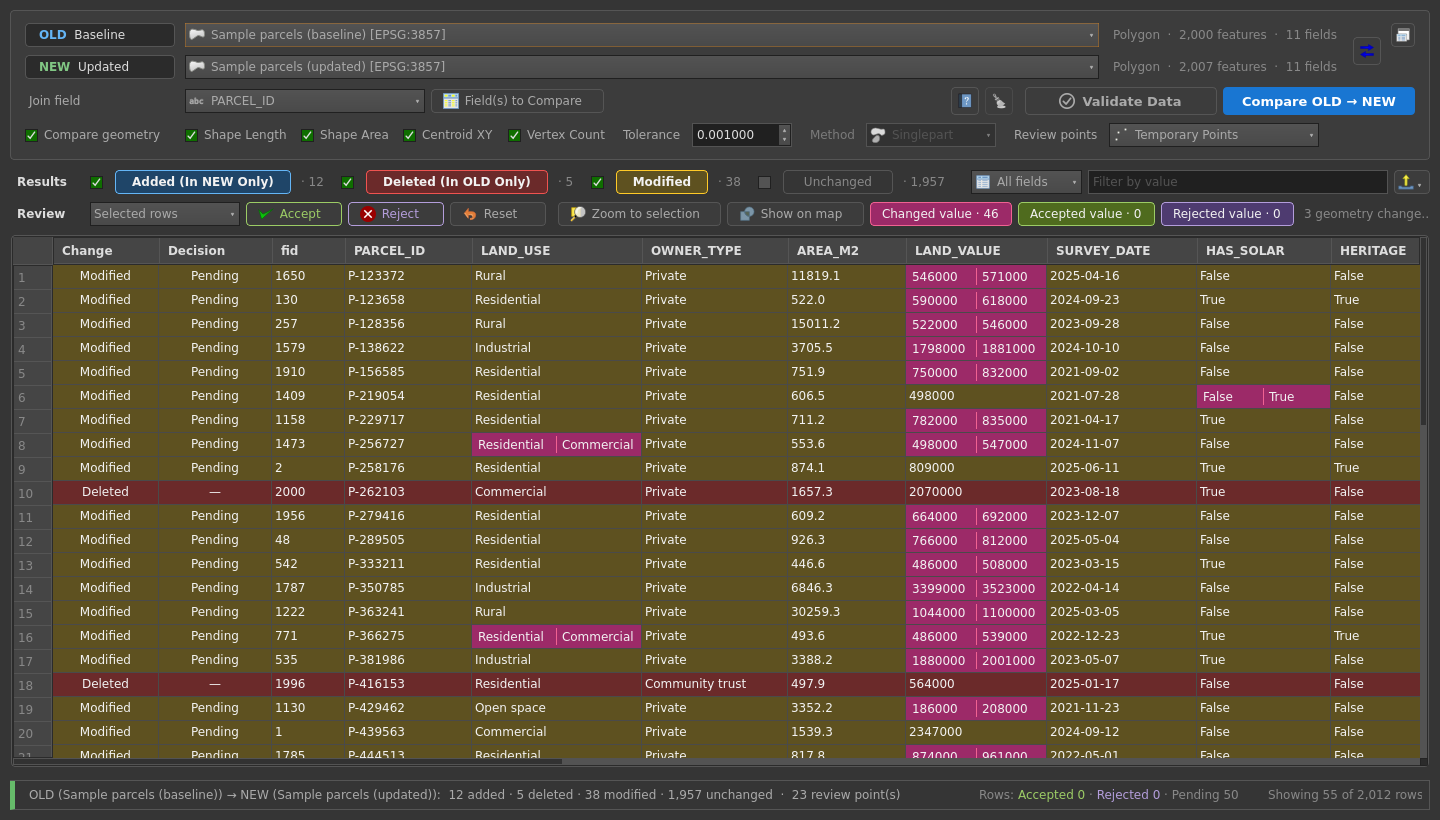
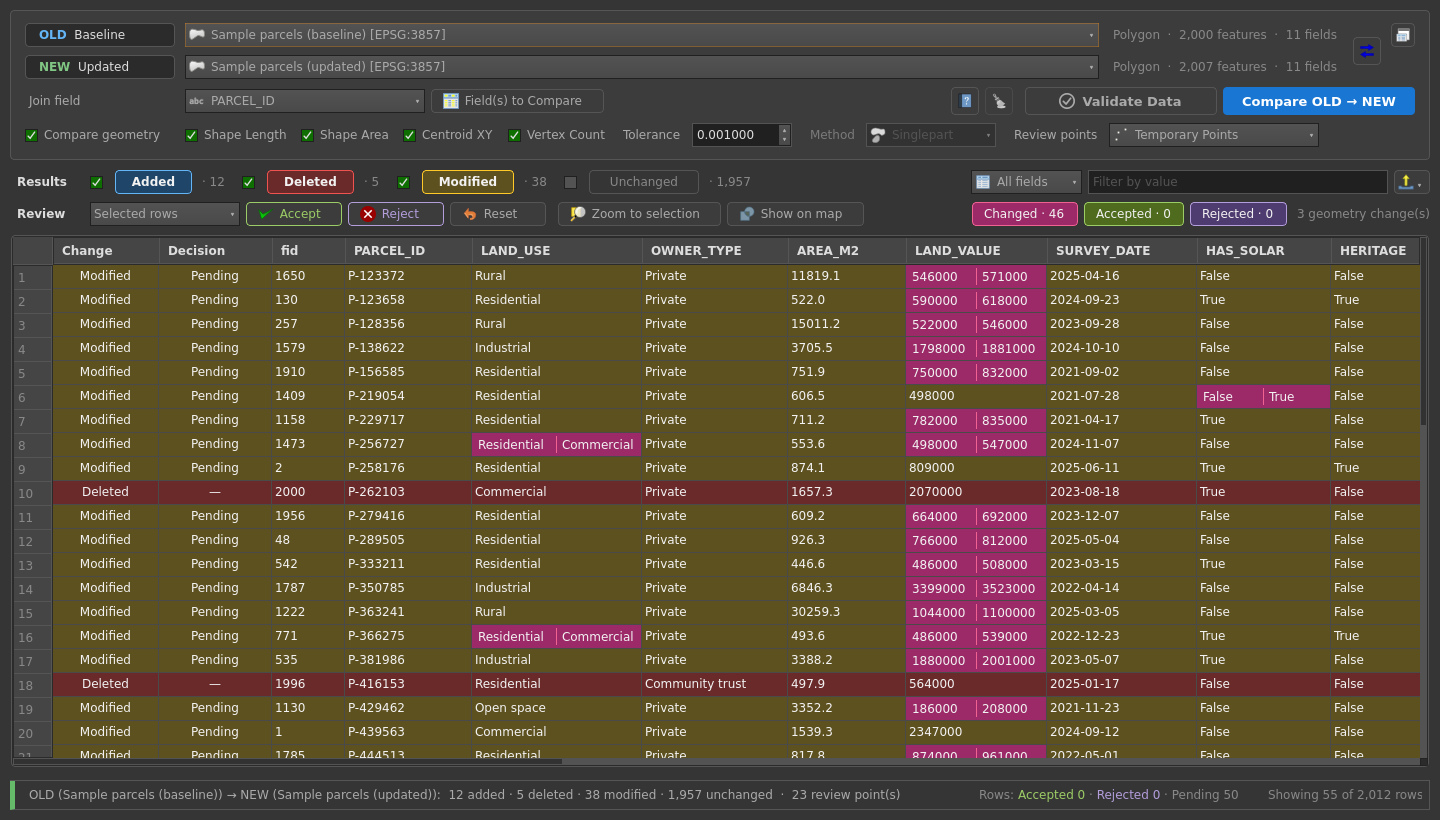
Compare: shrink further when docked; shorter labels; greyed geometry ticks
- The Review buttons (Accept, Reject, Reset, Zoom to selection, Show on
  map) and Field(s) to Compare turn icon-only when the panel is narrow,
  with their names in the tooltips, as in the Explorer's top row. The
  panel's minimum width drops by about a quarter.
- Results: "Added" and "Deleted" without "(In NEW / OLD Only)"; the
  counts stay. The help describes each kind in detail.
- Filter by value shrinks with the panel, down to the width of the All
  fields picker beside it.
- Review legends read "Changed", "Accepted" and "Rejected".
- With Compare geometry unticked, its options show greyed but ticked for
  the OLD layer's geometry type. A disabled check box no longer loses its
  box (a transparent background made the style draw it invisible).

Claude-Session: https://claude.ai/code/session_01WzmTZVv7prW4LhcmkwE1Ve

Changed region(s): [[0.125, 0.1829, 0.5312, 0.2439], [0.5625, 0.2134, 1.0, 0.2744]]

diff --git a/ui/geotable_compare.py b/ui/geotable_compare.py
@@ -831,8 +831,11 @@ class GeoTableCompareDialog(QWidget):
         join_row = QHBoxLayout()
         join_row.setSpacing(m.gap)
         join_row.addWidget(self.join_field_combo)
-        join_row.addWidget(self.column_filter_btn)
-        join_row.addStretch()
+        fields_row = W.ButtonRow(m)              # icon-only when narrow
+        self.column_filter_btn.setProperty("gtsNameTip", True)
+        fields_row.add(self.column_filter_btn)
+        fields_row.add_stretch()
+        join_row.addWidget(fields_row, 1)
         join_row.addWidget(self.help_btn)
         join_row.addWidget(self.clear_validation_btn)
         join_row.addSpacing(m.gap)
@@ -902,12 +905,7 @@ class GeoTableCompareDialog(QWidget):
         self.filter_buttons = {}
         self.filter_boxes = {}
         self.filter_counts = {}
-        labels = {
-            "Added": "Added (In NEW Only)",
-            "Deleted": "Deleted (In OLD Only)",
-            "Modified": "Modified",
-            "Unchanged": "Unchanged",
-        }
+        labels = {status: status for status in STATUSES}
         tips = {
             "Added": "Features that exist only in the NEW version",
             "Deleted": "Features that exist in OLD but are missing from NEW",
@@ -947,8 +945,8 @@ class GeoTableCompareDialog(QWidget):
         # ---- Filter by field value (field picker + suggestions) ----
         self.filter_field_combo = QComboBox()
         self.filter_field_combo.setFixedHeight(m.control_h)
-        self.filter_field_combo.setFixedWidth(
-            m.fm.horizontalAdvance("All fields") + m.icon + 44)
+        field_w = m.fm.horizontalAdvance("All fields") + m.icon + 44
+        self.filter_field_combo.setFixedWidth(field_w)
         self.filter_field_combo.setIconSize(QSize(m.icon, m.icon))
         self.filter_field_combo.setMaxVisibleItems(16)
         self.filter_field_combo.view().setMinimumWidth(280)
@@ -961,7 +959,8 @@ class GeoTableCompareDialog(QWidget):
         self.search_edit.setPlaceholderText("Filter by value")
         self.search_edit.setClearButtonEnabled(True)
         self.search_edit.setFixedHeight(m.control_h)
-        self.search_edit.setMinimumWidth(150)
+        # shrinks with the panel, never below the field picker beside it
+        self.search_edit.setMinimumWidth(field_w)
         self.search_edit.setMaximumWidth(300)
         self.search_edit.setSizePolicy(
             QSizePolicy.Policy.Expanding, QSizePolicy.Policy.Fixed)
@@ -1050,6 +1049,8 @@ class GeoTableCompareDialog(QWidget):
         self.review_scope.setToolTip("Which rows the buttons apply to")
         lay.addWidget(self.review_scope)
 
+        # the buttons turn icon-only when the panel is too narrow for them
+        buttons = W.ButtonRow(m)
         self.accept_btn = self._review_button(
             "Accept", icons.SUCCESS, "accept",
             "Mark the Added / Modified rows as accepted")
@@ -1059,7 +1060,7 @@ class GeoTableCompareDialog(QWidget):
         self.reset_btn = self._review_button(
             "Reset", icons.UNDO, "reset", "Return the rows to Pending")
         for b in (self.accept_btn, self.reject_btn, self.reset_btn):
-            lay.addWidget(b)
+            buttons.add(b)
 
         self.zoom_btn = W.button(
             m, "Zoom to selection", icons.native(icons.ZOOM_SELECTED),
@@ -1074,11 +1075,14 @@ class GeoTableCompareDialog(QWidget):
             "map, and zoom to it.\n"
             "Needs 'Compare geometry' to be ticked when comparing.")
         self.map_btn.setEnabled(False)
-        lay.addSpacing(m.gap)
-        lay.addWidget(self.zoom_btn)
-        lay.addWidget(self.map_btn)
-        lay.addStretch(1)
-        self.changed_field_legend = QLabel("Changed value")
+        buttons.add_spacing(m.gap)
+        for b in (self.zoom_btn, self.map_btn):
+            b.setProperty("gtsNameTip", True)
+            buttons.add(b)
+        buttons.add_stretch()
+        self.review_buttons = buttons
+        lay.addWidget(buttons, 1)
+        self.changed_field_legend = QLabel("Changed")
         self.changed_field_legend.setObjectName("legendChanged")
         self.changed_field_legend.setFixedHeight(m.compact_h)
         self.changed_field_legend.setToolTip(
@@ -1087,11 +1091,11 @@ class GeoTableCompareDialog(QWidget):
             "(blank = empty / NULL).\nRight-click it to accept or reject it."
         )
         lay.addWidget(self.changed_field_legend)
-        self.accepted_legend = QLabel("Accepted value")
+        self.accepted_legend = QLabel("Accepted")
         self.accepted_legend.setObjectName("legendAccepted")
         self.accepted_legend.setToolTip(
             "An accepted change: the NEW value is kept (and exported)")
-        self.rejected_legend = QLabel("Rejected value")
+        self.rejected_legend = QLabel("Rejected")
         self.rejected_legend.setObjectName("legendRejected")
         self.rejected_legend.setToolTip(
             "A rejected change: the OLD value is kept (and exported)")
@@ -1115,6 +1119,7 @@ class GeoTableCompareDialog(QWidget):
     def _review_button(self, text, icon_name, role, tip):
         btn = W.button(self.metrics, text, icons.native(icon_name), tip)
         btn.setProperty("role", role)
+        btn.setProperty("gtsNameTip", True)       # icon-only: name in the tooltip
         btn.setMinimumWidth(96)
         return btn
 
@@ -1504,31 +1509,27 @@ class GeoTableCompareDialog(QWidget):
         self._update_geom_mode()
 
     def _update_geom_options(self):
-        """Auto-configure geometry checkboxes based on layer geometry type."""
-        if not self.geom_compare_cb.isChecked():
-            for cb in self._geom_checkboxes():
-                cb.setEnabled(False)
-            return
-
+        """Tick the geometry checks that suit the OLD layer's geometry type.
+        They are active only while 'Compare geometry' is ticked; otherwise
+        they stay greyed but ticked, showing what would be compared."""
+        on = self.geom_compare_cb.isChecked()
         old_layer = self.old_table_combo.currentLayer()
         if not old_layer:
+            if not on:
+                for cb in self._geom_checkboxes():
+                    cb.setEnabled(False)
             return
 
         gt = old_layer.geometryType()
         is_line = (gt == _GEOM_LINE)
         is_polygon = (gt == _GEOM_POLYGON)
 
-        self.geom_length_cb.setEnabled(is_line or is_polygon)
-        self.geom_length_cb.setChecked(is_line or is_polygon)
-
-        self.geom_area_cb.setEnabled(is_polygon)
-        self.geom_area_cb.setChecked(is_polygon)
-
-        self.geom_centroid_cb.setEnabled(True)
-        self.geom_centroid_cb.setChecked(True)
-
-        self.geom_vertices_cb.setEnabled(is_line or is_polygon)
-        self.geom_vertices_cb.setChecked(is_line or is_polygon)
+        for cb, applies in ((self.geom_length_cb, is_line or is_polygon),
+                            (self.geom_area_cb, is_polygon),
+                            (self.geom_centroid_cb, True),
+                            (self.geom_vertices_cb, is_line or is_polygon)):
+            cb.setEnabled(on and applies)
+            cb.setChecked(applies)
 
     def _get_geom_field_names(self):
         """Return list of virtual geometry field names currently enabled."""
@@ -1972,9 +1973,9 @@ class GeoTableCompareDialog(QWidget):
         self.review_tally.setText("Rows: " + text + f"  ·  Pending {pend:,}")
         values = Counter(self.cell_decisions.values())
         pending = max(self._value_total - values["Accepted"] - values["Rejected"], 0)
-        self.changed_field_legend.setText(f"Changed value · {pending:,}")
-        self.accepted_legend.setText(f"Accepted value · {values['Accepted']:,}")
-        self.rejected_legend.setText(f"Rejected value · {values['Rejected']:,}")
+        self.changed_field_legend.setText(f"Changed · {pending:,}")
+        self.accepted_legend.setText(f"Accepted · {values['Accepted']:,}")
+        self.rejected_legend.setText(f"Rejected · {values['Rejected']:,}")
 
     # ------------------------------------------------------------------
     # Right-click menu on the results

diff --git a/tests/qgis/test_suite_qgis.py b/tests/qgis/test_suite_qgis.py
@@ -381,7 +381,7 @@ class SuiteTests(unittest.TestCase):
         self.assertEqual(counts["Added"], 12)
         self.assertGreater(counts["Modified"], 0)
         self.assertEqual(panel.filter_counts["Added"].text(), "· 12")
-        self.assertEqual(panel.filter_boxes["Added"].text(), "Added (In NEW Only)")
+        self.assertEqual(panel.filter_boxes["Added"].text(), "Added")
         path = os.path.join(OUT, "compare.csv")
         _next_save.append(path)
         panel.export_results()
@@ -622,7 +622,7 @@ class SuiteTests(unittest.TestCase):
         self.assertTrue(all(it.data(decided) == "Accepted"
                             for it in panel._row_values(r2)))
         self.assertEqual(tbl.item(r2, 1).text(), "✓ Accepted")
-        self.assertTrue(panel.accepted_legend.text().startswith("Accepted value · "))
+        self.assertTrue(panel.accepted_legend.text().startswith("Accepted · "))
         self.assertIn("Mixed 1", panel.review_tally.text())
 
         # export: a rejected value gives OLD, an accepted one NEW
@@ -710,6 +710,42 @@ class SuiteTests(unittest.TestCase):
         for bar in (compare.filter_field_combo.parentWidget(),
                     compare.review_scope.parentWidget()):
             self.assertGreaterEqual(bar.width(), bar.minimumSizeHint().width())
+        # short kinds; the filter box shrinks down to the field picker's width
+        self.assertEqual(compare.filter_boxes["Deleted"].text(), "Deleted")
+        self.assertEqual(compare.search_edit.minimumWidth(),
+                         compare.filter_field_combo.width())
+        # at its narrowest the review buttons and Field(s) to Compare are
+        # icons, named in their tooltips; with room again the labels return
+        icon_only = Qt.ToolButtonStyle.ToolButtonIconOnly
+        accept = compare.accept_btn
+        self.assertEqual(accept.toolButtonStyle(), icon_only)
+        self.assertEqual(compare.column_filter_btn.toolButtonStyle(), icon_only)
+        self.assertTrue(accept.toolTip().startswith("Accept\n"))
+        win.resize(2400, 700)
+        H.settle(0.3)
+        self.assertNotEqual(accept.toolButtonStyle(), icon_only)
+        self.assertNotEqual(compare.column_filter_btn.toolButtonStyle(), icon_only)
+        self.assertGreaterEqual(accept.width(), 96)
+        self.assertFalse(accept.toolTip().startswith("Accept\n"))
+        # 'Compare geometry' off: its options are greyed but ticked for the
+        # OLD layer (a polygon: all four)
+        compare.old_table_combo.setLayer(self.layer)
+        H.settle(0.1)
+        self.assertFalse(compare.geom_compare_cb.isChecked())
+        for cb in compare._geom_checkboxes():
+            self.assertTrue(cb.isChecked() and not cb.isEnabled(), cb.text())
+        # a greyed, unticked box still draws its frame (it used to vanish)
+        cb = compare.geom_length_cb
+        cb.setChecked(False)
+        image = cb.grab().toImage()
+        frame = {image.pixel(x, y) for x in range(min(18, image.width()))
+                 for y in range(image.height())}
+        self.assertGreater(len(frame), 2)
+        cb.setChecked(True)
+        compare.geom_compare_cb.setChecked(True)
+        self.assertTrue(all(cb.isEnabled() for cb in compare._geom_checkboxes()))
+        compare.geom_compare_cb.setChecked(False)
+        self.assertFalse(any(cb.isEnabled() for cb in compare._geom_checkboxes()))
         # Pivot: icon export, then Help, then Dock
         pivot = self.plugin.open_pivot(self.layer)
         x = lambda w: w.mapTo(pivot, QPoint(0, 0)).x()

diff --git a/ui/widgets.py b/ui/widgets.py
@@ -417,7 +417,7 @@ class ButtonRow(QWidget):
         """Width of *b* showing its label (measured by Qt while the button
         is in text mode, so style padding and menu arrows are included)."""
         if b.toolButtonStyle() != Qt.ToolButtonStyle.ToolButtonIconOnly:
-            width = b.sizeHint().width()
+            width = max(b.sizeHint().width(), b.minimumWidth())
             if b.isVisible() or b.testAttribute(Qt.WidgetAttribute.WA_WState_Polished):
                 b.setProperty("gtsFullWidth", width)
             return width
@@ -426,7 +426,8 @@ class ButtonRow(QWidget):
             return int(stored)
         text = b.property("gtsLabel") or b.text()
         extra = 30 + self._metrics.icon + (16 if b.menu() is not None else 0)
-        return b.fontMetrics().horizontalAdvance(text) + extra
+        return max(b.fontMetrics().horizontalAdvance(text) + extra,
+                   int(b.property("gtsMinWidth") or 0))
 
     def _compact_width(self, b):
         """Icon-only width: a square, plus room for a menu arrow."""
@@ -446,6 +447,10 @@ class ButtonRow(QWidget):
         total += sum(w.sizeHint().width() for w in extras)
         visible = [b for b in self._buttons if not b.isHidden()] + extras
         total += self._metrics.gap * max(len(visible) - 1, 0)
+        for i in range(self._lay.count()):       # add_spacing gaps (a stretch is 0)
+            spacer = self._lay.itemAt(i).spacerItem()
+            if spacer is not None:
+                total += spacer.sizeHint().width()
         return total
 
     def _height(self):
@@ -487,12 +492,21 @@ class ButtonRow(QWidget):
                     b.setProperty("gtsLabel", b.text())
                     if not b.toolTip():
                         b.setToolTip(b.text())
+                    elif b.property("gtsNameTip"):
+                        b.setProperty("gtsTip", b.toolTip())
+                # a minimum width the button had with its label comes back with it
+                b.setProperty("gtsMinWidth", b.minimumWidth())
+                if b.property("gtsTip"):
+                    # the label goes, so the tooltip starts with the name
+                    b.setToolTip(f"{b.property('gtsLabel').strip()}\n{b.property('gtsTip')}")
                 b.setToolButtonStyle(Qt.ToolButtonStyle.ToolButtonIconOnly)
                 # icon-only buttons become exact squares, like square_button
                 b.setFixedWidth(self._compact_width(b))
             elif b.property("gtsLabel"):
-                b.setMinimumWidth(0)
+                b.setMinimumWidth(int(b.property("gtsMinWidth") or 0))
                 b.setMaximumWidth(16777215)
+                if b.property("gtsTip"):
+                    b.setToolTip(b.property("gtsTip"))
                 b.setToolButtonStyle(
                     Qt.ToolButtonStyle.ToolButtonTextBesideIcon)
             # the label padding goes in compact mode, so the style sheet never

diff --git a/ui/help_dialog.py b/ui/help_dialog.py
@@ -258,17 +258,28 @@ field differences (the broom button clears these results).</li>
 </ol>
 <h4>Reading the results</h4>
 <ul>
-<li>Row colours: <b>Added</b> (only in NEW), <b>Deleted</b> (only in OLD),
-<b>Modified</b> (a compared value differs) and <b>Unchanged</b>. Untick a
-kind in <b>Results</b> to hide it; <b>Filter by value</b> searches a field.</li>
-<li>A pink <b>Changed value</b> cell shows the OLD value on the left and the
+<li>The <b>Results</b> row sorts every feature into four kinds, matched by
+the <b>Join field</b>, each with its own row colour and, beside it, the
+number of features of that kind:
+<ul>
+<li><b>Added</b> - in NEW only: its ID is not in OLD.</li>
+<li><b>Deleted</b> - in OLD only: its ID is missing from NEW.</li>
+<li><b>Modified</b> - in both, and at least one compared value differs
+(with <b>Compare geometry</b>, a shape measure counts too).</li>
+<li><b>Unchanged</b> - in both, with every compared value the same.</li>
+</ul>
+Untick a kind to hide its rows (or click its box); the counts stay the
+same. <b>Filter by value</b> shows only the rows with a value containing the
+text, in the field picked beside it (<b>All fields</b> searches every
+field).</li>
+<li>A pink <b>Changed</b> cell shows the OLD value on the left and the
 NEW value on the right of the divider (blank = empty / NULL).</li>
 </ul>
 <h4>Reviewing changes</h4>
 <ul>
 <li>Right-click changed values and choose <b>Accept</b> (keeps the NEW value,
-lime <b>Accepted value</b>), <b>Reject</b> (keeps the OLD value, lavender
-<b>Rejected value</b>) or <b>Reset</b>. Select several cells to decide them
+lime <b>Accepted</b>), <b>Reject</b> (keeps the OLD value, lavender
+<b>Rejected</b>) or <b>Reset</b>. Select several cells to decide them
 together.</li>
 <li>The <b>Accept / Reject / Reset</b> buttons (or <i>Accept row</i> in the
 right-click menu) decide every changed value of the selected rows, or of all

diff --git a/ui/theme.py b/ui/theme.py
@@ -165,8 +165,10 @@ def stylesheet(t, m):
         QLabel#gtsDim {{ color: {t.text_dim}; }}
         QLabel#gtsStrong {{ font-weight: 700; color: {t.text_strong}; }}
         QLabel#gtsLink {{ color: {t.accent_text}; }}
-        QWidget#gtsPanel QLabel:disabled, QWidget#gtsPanel QCheckBox:disabled {{
+        QWidget#gtsPanel QLabel:disabled {{
             background: transparent; color: {t.text_faint}; }}
+        /* no background on a check box: it would hide its greyed tick box */
+        QWidget#gtsPanel QCheckBox:disabled {{ color: {t.text_faint}; }}
 
         QToolButton#gtsButton, QToolButton#gtsSquare {{
             background: {t.card}; color: {t.text};

diff --git a/README.md b/README.md
@@ -196,8 +196,8 @@ Modified or Unchanged. The comparison engine is unchanged from the standalone
 plugin v1.1 (the regression test checks that exports match it byte for byte).
 
 - A **changed value** shows OLD and NEW side by side, split by a divider.
-  Right-click values to **accept** (keeps NEW, lime *Accepted value*),
-  **reject** (keeps OLD, lavender *Rejected value*) or reset them, one cell or
+  Right-click values to **accept** (keeps NEW, lime *Accepted*),
+  **reject** (keeps OLD, lavender *Rejected*) or reset them, one cell or
   many at once; the cell then shows the one value kept.
 - *Accept / Reject / Reset* (buttons or right-click) decide every changed
   value of whole rows. The Decision column follows the values: Accepted,
